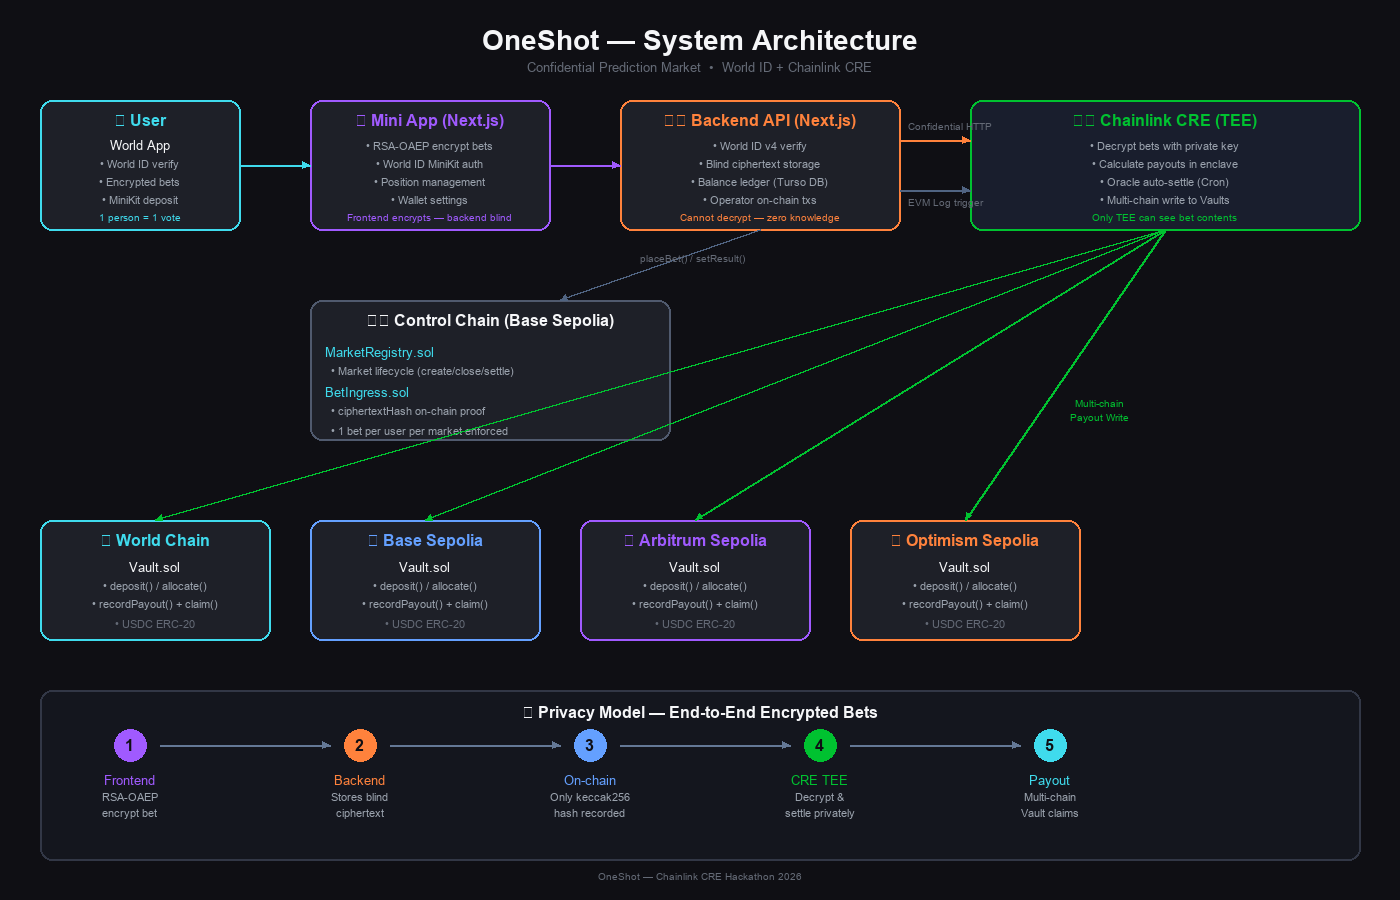
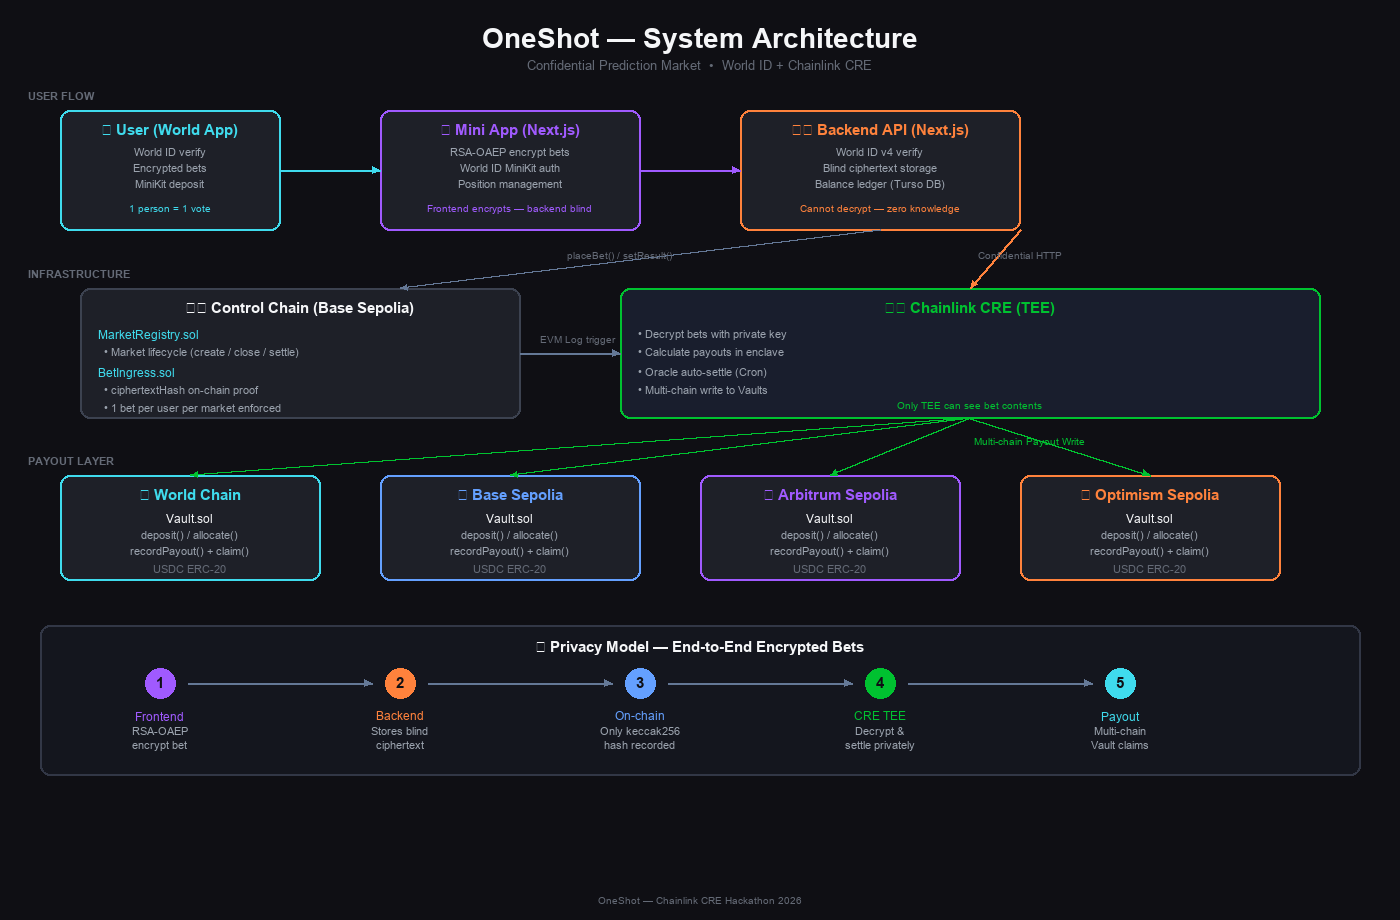
docs: redesign architecture diagram with clearer 3-layer layout
Reorganize from cramped single-row to three distinct layers:
- User Flow (User → Mini App → Backend)
- Infrastructure (Control Chain + CRE TEE)
- Payout Layer (4 Vault chains)

diff --git a/docs/gen_arch_diagram.py b/docs/gen_arch_diagram.py
@@ -1,0 +1,185 @@
+#!/usr/bin/env python3
+"""Generate OneShot architecture diagram as PNG."""
+from PIL import Image, ImageDraw, ImageFont
+import math, os
+
+W, H = 1400, 920
+BG = (15, 15, 20)
+CARD_BG = (30, 32, 40)
+ACCENT_TEAL = (63, 219, 237)
+ACCENT_ORANGE = (255, 130, 60)
+ACCENT_PURPLE = (160, 90, 255)
+ACCENT_GREEN = (0, 194, 48)
+ACCENT_BLUE = (100, 160, 255)
+TEXT_WHITE = (245, 246, 248)
+TEXT_GRAY = (155, 163, 174)
+TEXT_DIM = (100, 106, 118)
+ARROW_COLOR = (100, 120, 150)
+BORDER_SUBTLE = (60, 66, 80)
+
+img = Image.new("RGB", (W, H), BG)
+draw = ImageDraw.Draw(img)
+
+def get_font(size, bold=False):
+    paths = [
+        "/System/Library/Fonts/SFPro-Bold.otf" if bold else "/System/Library/Fonts/SFPro-Regular.otf",
+        "/System/Library/Fonts/Supplemental/Arial Bold.ttf" if bold else "/System/Library/Fonts/Supplemental/Arial.ttf",
+        "/System/Library/Fonts/Helvetica.ttc",
+    ]
+    for p in paths:
+        if os.path.exists(p):
+            try:
+                return ImageFont.truetype(p, size)
+            except:
+                pass
+    return ImageFont.load_default()
+
+font_title = get_font(28, bold=True)
+font_subtitle = get_font(13)
+font_heading = get_font(15, bold=True)
+font_body = get_font(12)
+font_small = get_font(11)
+font_label = get_font(10)
+font_layer = get_font(11, bold=True)
+
+def rounded_rect(x, y, w, h, fill, border=None, radius=10):
+    draw.rounded_rectangle([x, y, x+w, y+h], radius=radius, fill=fill, outline=border, width=2)
+
+def draw_arrow(x1, y1, x2, y2, color=ARROW_COLOR, width=2):
+    draw.line([(x1, y1), (x2, y2)], fill=color, width=width)
+    angle = math.atan2(y2-y1, x2-x1)
+    size = 8
+    draw.polygon([
+        (x2, y2),
+        (x2 - size*math.cos(angle - 0.4), y2 - size*math.sin(angle - 0.4)),
+        (x2 - size*math.cos(angle + 0.4), y2 - size*math.sin(angle + 0.4)),
+    ], fill=color)
+
+def draw_card(x, y, w, h, title, items, border_color, tagline=None):
+    rounded_rect(x, y, w, h, CARD_BG, border_color)
+    draw.text((x + w//2, y + 14), title, fill=border_color, font=font_heading, anchor="mt")
+    for i, item in enumerate(items):
+        draw.text((x + w//2, y + 38 + i*16), item, fill=TEXT_GRAY, font=font_small, anchor="mt")
+    if tagline:
+        draw.text((x + w//2, y + h - 16), tagline, fill=border_color, font=font_label, anchor="mb")
+
+# ── Title ──
+draw.text((W//2, 28), "OneShot — System Architecture", fill=TEXT_WHITE, font=font_title, anchor="mt")
+draw.text((W//2, 60), "Confidential Prediction Market  •  World ID + Chainlink CRE", fill=TEXT_DIM, font=font_subtitle, anchor="mt")
+
+# ── Layer 1: User Flow (y=95) ──
+draw.text((28, 90), "USER FLOW", fill=TEXT_DIM, font=font_layer)
+L1Y = 110
+# User
+draw_card(60, L1Y, 220, 120, "👤 User (World App)",
+    ["World ID verify", "Encrypted bets", "MiniKit deposit"],
+    ACCENT_TEAL, "1 person = 1 vote")
+# Mini App
+draw_card(380, L1Y, 260, 120, "📱 Mini App (Next.js)",
+    ["RSA-OAEP encrypt bets", "World ID MiniKit auth", "Position management"],
+    ACCENT_PURPLE, "Frontend encrypts — backend blind")
+# Backend
+draw_card(740, L1Y, 280, 120, "⚙ Backend API (Next.js)",
+    ["World ID v4 verify", "Blind ciphertext storage", "Balance ledger (Turso DB)"],
+    ACCENT_ORANGE, "Cannot decrypt — zero knowledge")
+
+# L1 arrows
+draw_arrow(280, L1Y+60, 380, L1Y+60, ACCENT_TEAL)
+draw_arrow(640, L1Y+60, 740, L1Y+60, ACCENT_PURPLE)
+
+# ── Layer 2: Infrastructure (y=280) ──
+draw.text((28, 268), "INFRASTRUCTURE", fill=TEXT_DIM, font=font_layer)
+L2Y = 288
+
+# Control Chain
+cx_ctrl = 80
+rounded_rect(cx_ctrl, L2Y, 440, 130, CARD_BG, BORDER_SUBTLE)
+draw.text((cx_ctrl+220, L2Y+14), "⛓ Control Chain (Base Sepolia)", fill=TEXT_WHITE, font=font_heading, anchor="mt")
+draw.text((cx_ctrl+18, L2Y+40), "MarketRegistry.sol", fill=ACCENT_TEAL, font=font_body)
+draw.text((cx_ctrl+18, L2Y+58), "  • Market lifecycle (create / close / settle)", fill=TEXT_GRAY, font=font_small)
+draw.text((cx_ctrl+18, L2Y+78), "BetIngress.sol", fill=ACCENT_TEAL, font=font_body)
+draw.text((cx_ctrl+18, L2Y+96), "  • ciphertextHash on-chain proof", fill=TEXT_GRAY, font=font_small)
+draw.text((cx_ctrl+18, L2Y+114), "  • 1 bet per user per market enforced", fill=TEXT_GRAY, font=font_small)
+
+# CRE TEE
+cx_cre = 620
+rounded_rect(cx_cre, L2Y, 700, 130, (25, 30, 45), ACCENT_GREEN)
+draw.text((cx_cre+350, L2Y+14), "🛡 Chainlink CRE (TEE)", fill=ACCENT_GREEN, font=font_heading, anchor="mt")
+draw.text((cx_cre+18, L2Y+40), "• Decrypt bets with private key", fill=TEXT_GRAY, font=font_small)
+draw.text((cx_cre+18, L2Y+58), "• Calculate payouts in enclave", fill=TEXT_GRAY, font=font_small)
+draw.text((cx_cre+18, L2Y+78), "• Oracle auto-settle (Cron)", fill=TEXT_GRAY, font=font_small)
+draw.text((cx_cre+18, L2Y+96), "• Multi-chain write to Vaults", fill=TEXT_GRAY, font=font_small)
+draw.text((cx_cre+350, L2Y+114), "Only TEE can see bet contents", fill=ACCENT_GREEN, font=font_label, anchor="mt")
+
+# L1 → L2 arrows
+# Backend → Control Chain
+draw_arrow(880, L1Y+120, 400, L2Y, ARROW_COLOR)
+draw.text((620, L1Y+142), "placeBet() / setResult()", fill=TEXT_DIM, font=font_label, anchor="mt")
+
+# Backend → CRE (Confidential HTTP)
+draw_arrow(1020, L1Y+120, 970, L2Y, ACCENT_ORANGE)
+draw.text((1020, L1Y+142), "Confidential HTTP", fill=TEXT_DIM, font=font_label, anchor="mt")
+
+# Control Chain → CRE (EVM Log)
+draw_arrow(520, L2Y+65, 620, L2Y+65, ARROW_COLOR)
+draw.text((540, L2Y+45), "EVM Log trigger", fill=TEXT_DIM, font=font_label)
+
+# ── Layer 3: Vault Chains (y=475) ──
+draw.text((28, 455), "PAYOUT LAYER", fill=TEXT_DIM, font=font_layer)
+L3Y = 475
+chains = [
+    ("World Chain", ACCENT_TEAL, 60),
+    ("Base Sepolia", ACCENT_BLUE, 380),
+    ("Arbitrum Sepolia", ACCENT_PURPLE, 700),
+    ("Optimism Sepolia", ACCENT_ORANGE, 1020),
+]
+
+for name, color, cx in chains:
+    rounded_rect(cx, L3Y, 260, 105, CARD_BG, color)
+    draw.text((cx+130, L3Y+14), f"🏦 {name}", fill=color, font=font_heading, anchor="mt")
+    draw.text((cx+130, L3Y+38), "Vault.sol", fill=TEXT_WHITE, font=font_body, anchor="mt")
+    draw.text((cx+130, L3Y+56), "deposit() / allocate()", fill=TEXT_GRAY, font=font_small, anchor="mt")
+    draw.text((cx+130, L3Y+72), "recordPayout() + claim()", fill=TEXT_GRAY, font=font_small, anchor="mt")
+    draw.text((cx+130, L3Y+90), "USDC ERC-20", fill=TEXT_DIM, font=font_small, anchor="mt")
+
+# CRE → Vault arrows (fan out from CRE bottom center)
+cre_bottom_x = cx_cre + 350
+cre_bottom_y = L2Y + 130
+for name, color, cx in chains:
+    target_x = cx + 130
+    draw_arrow(cre_bottom_x, cre_bottom_y, target_x, L3Y, ACCENT_GREEN)
+
+draw.text((cre_bottom_x + 60, cre_bottom_y + 20), "Multi-chain Payout Write", fill=ACCENT_GREEN, font=font_label, anchor="mt")
+
+# ── Privacy Flow (bottom) ──
+PY = 625
+rounded_rect(40, PY, W-80, 150, (20, 22, 30), (50, 55, 70))
+draw.text((W//2, PY+16), "🔒 Privacy Model — End-to-End Encrypted Bets", fill=TEXT_WHITE, font=font_heading, anchor="mt")
+
+steps = [
+    ("1", "Frontend", "RSA-OAEP\nencrypt bet", ACCENT_PURPLE, 160),
+    ("2", "Backend", "Stores blind\nciphertext", ACCENT_ORANGE, 400),
+    ("3", "On-chain", "Only keccak256\nhash recorded", ACCENT_BLUE, 640),
+    ("4", "CRE TEE", "Decrypt &\nsettle privately", ACCENT_GREEN, 880),
+    ("5", "Payout", "Multi-chain\nVault claims", ACCENT_TEAL, 1120),
+]
+
+for num, title, desc, color, sx in steps:
+    cy = PY + 58
+    draw.ellipse([sx-15, cy-15, sx+15, cy+15], fill=color)
+    draw.text((sx, cy), num, fill=BG, font=font_heading, anchor="mm")
+    draw.text((sx, cy+28), title, fill=color, font=font_body, anchor="mt")
+    for i, line in enumerate(desc.split("\n")):
+        draw.text((sx, cy+44+i*14), line, fill=TEXT_GRAY, font=font_small, anchor="mt")
+
+for i in range(len(steps)-1):
+    x1 = steps[i][4] + 28
+    x2 = steps[i+1][4] - 28
+    draw_arrow(x1, PY+58, x2, PY+58, ARROW_COLOR)
+
+# ── Watermark ──
+draw.text((W//2, H-16), "OneShot — Chainlink CRE Hackathon 2026", fill=TEXT_DIM, font=font_label, anchor="mb")
+
+out_path = os.path.join(os.path.dirname(__file__), "architecture.png")
+img.save(out_path, "PNG", quality=95)
+print(f"Saved to {out_path} ({W}x{H})")
